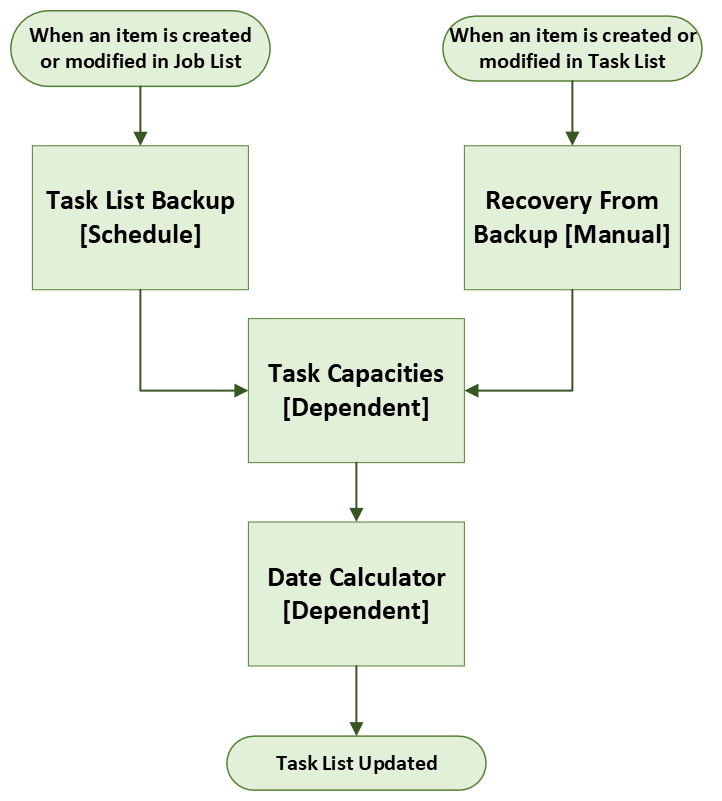
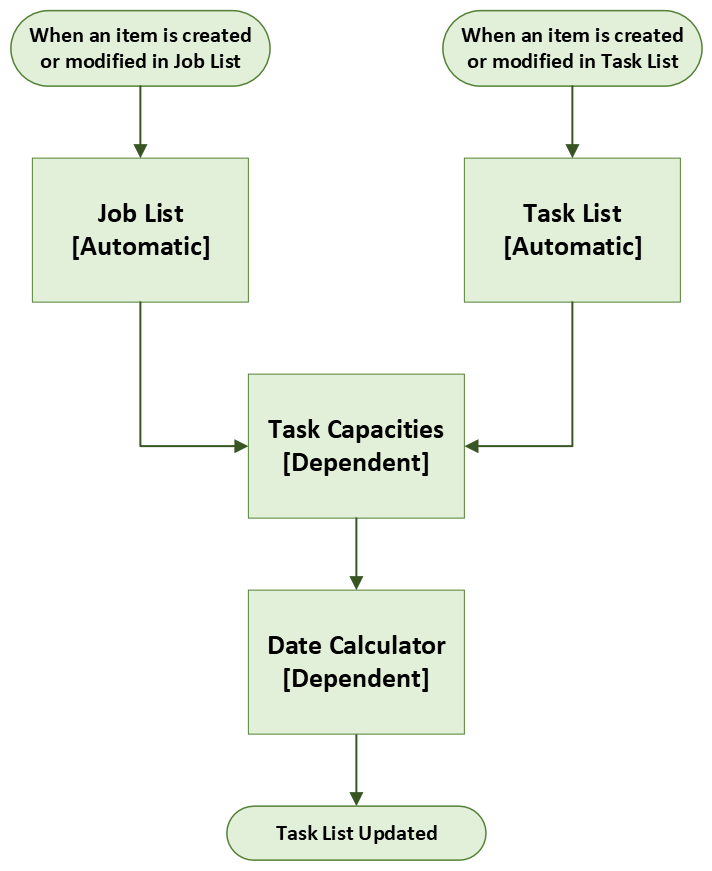
many updates

Changed region(s): [[0.0309, 0.1561, 0.9579, 0.9988], [0.0, 0.0, 0.4017, 0.1873], [0.618, 0.0, 0.9888, 0.1873]]

diff --git a/docs/flows/General/Task Capacities [Dependent].md b/docs/flows/General/Task Capacities [Dependent].md
@@ -5,33 +5,59 @@
 <p>notify.engineering account owns this <a href="https://make.powerautomate.com/environments/Default-a5273f41-687e-4e5e-9fba-18c6ce465b41/flows/shared/a4d1ba00-b59c-4e14-9d5a-ea0e869080d1/details" target="_blank">Flow</a>. If you are not a co-owner you will not be able to access it.</p>
 </div>
 
+
 ## Description
-Flow used to obtain data from the <a href="https://vistacaretech.sharepoint.com/sites/engineering/Bell/BracebridgeUBF/Lists/Task%20Capacities/AllItems.aspx" target="_blank">Task Capacities</a> list referring to the **Job** to which the **Task** is related. Then pass this data to the next Flow (***Bell - Bracebridge UBF - Date Calculator [Dependent] Flow***).
+Flow used to obtain data from the **Task Capacities** SharePoint list referring to the **Job** to which the **Task** is related. Then pass this data to the next Flow (**Date Calculator [Dependent]** Flow).
+
 
 ## Trigger Action
-When an HTTP request is received from:
-* ***Bell - Bracebridge UBF - Job List [Automatic] Flow***
-* ***Bell - Bracebridge UBF - Task List [Automatic] Flow***
+When an HTTP request is received from **Job List [Automatic]** or  **Task List [Automatic]** Flows.
+
+
+## Variables
+* **First Task ID**: **Integer** type variable used to store the ID of the first **Task** referring to this **Job** in the **Task List**, that is, the ID of the **Parent Task**.
+<br></br>
+
+* **Active Task Sync**: **Float** type variable used to store the **Step**/**#** of the first type of **Task** present in the **Task Capacities** SharePoint list referring to a **Job** that has the attribute **Active Task Sync** in the **Job List** SharePoint list.
+<br></br>
+
 
 ## Decision Points
-* **Condition - If There Are No Tasks For This Job in The Task List Yet**: Condition used to identify whether the **Job** already has tasks related to it in the <a href="https://vistacaretech.sharepoint.com/sites/engineering/Bell/BracebridgeUBF/Lists/Task%20List/1000%20Tasks.aspx" target="_blank">Task List</a>.
+* **Condition - If There Are No Tasks For This Job in The Task List Yet**: Condition used to identify whether the **Job** already has tasks related to it in the **Task List**.
 <br></br>
     * Type: if
 <br></br>
-* **Condition - If Has Active Task Sync**: Condition used to identify whether the **Job** in the <a href="https://vistacaretech.sharepoint.com/sites/engineering/Bell/BracebridgeUBF/Lists/Job%20List/AllItems.aspx" target="_blank">Job List</a> has any task assigned as **Active Task Sync**.
+* **Condition - If Has Active Task Sync**: Condition used to identify whether the **Job** in the **Job List** has any task assigned as **Active Task Sync**.
 <br></br>
     * Type: if
 <br></br>
 
+
+## Related Flows
+* [Task List [Automatic]](Task%20List%20[Automatic].md)
+* [Job List [Automatic]](Job%20List%20[Automatic].md)
+* [Date Calculator [Dependent]](Date%20Calculator%20[Dependent].md)
+
+
 ## Workflow End
-* HTTP action (***Bell - Bracebridge UBF - Date Calculator [Dependent] Flow***)
+1. "**HTTP** - Date Calculator [Dependent]"  
+    **->** "**Update item** - Job Name Row First Task on Task List"
+<br></br>
+
 
 ## SharePoint Lists Affected by Workflow
 * <a href="https://vistacaretech.sharepoint.com/sites/engineering/Bell/BracebridgeUBF/Lists/Task%20List/1000%20Tasks.aspx" target="_blank">Task List</a>
 * <a href="https://vistacaretech.sharepoint.com/sites/engineering/Bell/BracebridgeUBF/Lists/Job%20List/AllItems.aspx" target="_blank">Job List</a>
 * <a href="https://vistacaretech.sharepoint.com/sites/engineering/Bell/BracebridgeUBF/Lists/Task%20Capacities/AllItems.aspx" target="_blank">Task Capacities</a>
 
+<div class="note">
+<p class="admonition-title">IMPORTANT</p>
+<p>The links above point to the lists present on the **Bracebridge UBF** subsite, however Flow will update the equivalent lists in each set subsite.</p>
+</div>
+
+
 ## Excel Spreadsheets Involved in the Process
+* There is no excel spreadsheets involved in the process.
 
 
 ## Example of Execution

diff --git a/docs/flows/General/Daily Update of Lists by Subsite [Schedule].md b/docs/flows/General/Daily Update of Lists by Subsite [Schedule].md
@@ -5,8 +5,10 @@
 <p>notify.engineering account owns this <a href="https://make.powerautomate.com/environments/Default-a5273f41-687e-4e5e-9fba-18c6ce465b41/flows/7d8c6806-8952-4cd7-824b-c26c6d712bc8/details" target="_blank">Flow</a>. If you are not a co-owner you will not be able to access it.</p>
 </div>
 
+
 ## Description
 Flow used to trigger the execution of other Flows on a daily basis, which are responsible for updating Sharepoint List. Also responsible for passing on the necessary parameters for the execution of these other Flows.
+
 
 ## Trigger Action
 Flow is automatically activated daily at sunset.
@@ -15,6 +17,7 @@ Flow is automatically activated daily at sunset.
 <p class="admonition-title">IMPORTANT</p>
 <p>If necessary, it can be configured to trigger several times a day at different times.</p>
 </div>
+
 
 ## Variables
 * **parameters**: **Array** type variable that stores the **siteAddress**, **katapultFolder**, **timeToStart** and **startDateRule** values in **Object** format.
@@ -39,14 +42,21 @@ Flow is automatically activated daily at sunset.
 * **listsNames**: **Object** type variable used to store the name of the SharePoint lists used in the Flow and their respective IDs when executing the "Apply to each siteAddress" action.
 <br></br>
 
+
 ## Decision Points
-* There is no decision point.
+There is no decision point.
+
 
 ## Related Flows
 * [Update of Lists related to Field Survey [Dependent]](../General/Update%20of%20Lists%20Related%20to%20Field%20Survey%20[Dependent].md)
+* [Get SharePoint Lists IDs [Dependent]](../General/Get%20SharePoint%20Lists%20IDs%20[Dependent].md)
+
 
 ## Workflow End
-1. "**Apply to each** siteAddress" > "**HTTP** - Update of Lists related to Field Survey [Dependent]"
+1. "**Apply to each** siteAddress"  
+    **->** "**HTTP** - Update of Lists related to Field Survey [Dependent]"
+<br></br>
+
 
 ## SharePoint Lists Affected by the Workflow
 * <a href="https://vistacaretech.sharepoint.com/sites/engineering/Lists/Field_Collection/Group%20Dates.aspx" target="_blank">Daily Field Collections</a>
@@ -57,11 +67,12 @@ Flow is automatically activated daily at sunset.
 
 <div class="note">
 <p class="admonition-title">IMPORTANT</p>
-<p>The links above point to the lists present on the Engineering subsite, however Flow will update the equivalent lists in each set subsite.</p>
+<p>The links above point to the lists present on the **Engineering** subsite, however Flow will update the equivalent lists in each set subsite.</p>
 </div>
 
+
 ## Excel Spreadsheets Involved in the Process
-* <a href="https://vistacaretech.sharepoint.com/sites/engineering/Shared%20Documents/Forms/AllItems.aspx?id=%2Fsites%2Fengineering%2FShared%20Documents%2FField%20Survey%2FDaily%20Field%20Collections&viewid=08c9b4b0%2D1976%2D4850%2Da879%2D28ef79748a25" target="_blank">DailyFieldCollections.xlsx</a>
-* <a href="https://vistacaretech.sharepoint.com/sites/engineering/Shared%20Documents/Forms/AllItems.aspx?id=%2Fsites%2Fengineering%2FShared%20Documents%2FField%20Survey%2FDaily%20Field%20Collections&viewid=08c9b4b0%2D1976%2D4850%2Da879%2D28ef79748a25" target="_blank">DailyUpdatedJobList.xlsx</a>
+There is no excel spreadsheets involved in the process.
+
 
 ## Example of Execution

diff --git a/docs/flows/General/Task List [Automatic].md b/docs/flows/General/Task List [Automatic].md
@@ -30,11 +30,13 @@ When an item is created or modified in the **Task List**.
 <br></br>
     * Type: if
 <br></br>
-* **Condition**: Condition used to identify whether the Status attribute was changed to **Completed**, and then direct Flow to the appropriate action.
+
+* **Condition - If Task Has Status Completed**: Condition used to identify whether the Status attribute was changed to **Completed**, and then direct Flow to the appropriate action.
 <br></br>
     * Type: if
 <br></br>
-* **Condition 2**: Condition used to identify whether the Status attribute was changed to **In Progress**, and then direct Flow to the appropriate action.
+
+* **Condition - If Task Has Status In Progress**: Condition used to identify whether the Status attribute was changed to **In Progress**, and then direct Flow to the appropriate action.
 <br></br>
     * Type: if
 
@@ -42,12 +44,19 @@ When an item is created or modified in the **Task List**.
 ## Related Flows
 * [Task Capacities [Dependent]](Task%20Capacities%20[Dependent].md)
 * [Date Calculator [Dependent]](Date%20Calculator%20[Dependent].md)
+* [Get SharePoint Lists IDs [Dependent]](../General/Get%20SharePoint%20Lists%20IDs%20[Dependent].md)
 
 
 ## Workflow End
-* Condition - If Task Had Its Status, StartDate or DueDate changed > Case False > Terminate action
-* Condition > Case False > Condition 2 > Case False > Terminate action
-* HTTP action (***Bell - St Charles - Task Capacities [Dependent] Flow***)
+1. "**Condition** - If Task Had Its Status, StartDate or DueDate changed"  
+    **->** "**Case** True"
+    **->** "**HTTP** - Task Capacities [Dependent]"  
+<br></br>
+
+2. "**Condition** - If Task Had Its Status, StartDate or DueDate changed"  
+    **->** "**Case** False"
+    **->** "Terminate"
+<br></br>
 
 
 ## SharePoint Lists Affected by Workflow
@@ -55,7 +64,7 @@ When an item is created or modified in the **Task List**.
 
 <div class="note">
 <p class="admonition-title">IMPORTANT</p>
-<p>The links above point to the lists present on the Bracebridge UBF subsite, however Flow will update the equivalent lists in each set subsite.</p>
+<p>The links above point to the lists present on the **Bracebridge UBF** subsite, however Flow will update the equivalent lists in each set subsite.</p>
 </div>
 
 

diff --git a/docs/flows/General/Job List [Automatic].md b/docs/flows/General/Job List [Automatic].md
@@ -41,6 +41,7 @@ When an item is created or modified in the **Job List**.
 * [Task Capacities [Dependent]](Task%20Capacities%20[Dependent].md)
 * [Date Calculator [Dependent]](Date%20Calculator%20[Dependent].md)
 * [Update Job List With New Jobs [Dependent]](Update%20Job%20List%20With%20New%20Jobs%20[Dependent].md)
+* [Get SharePoint Lists IDs [Dependent]](../General/Get%20SharePoint%20Lists%20IDs%20[Dependent].md)
 
 
 ## Workflow End
@@ -60,7 +61,7 @@ When an item is created or modified in the **Job List**.
     **->** "**Case** False"
     **->** "**Condition** - If the Job received a Start Date"  
     **->** "**Case** False"  
-    **->** Terminate"  
+    **->** "Terminate"
 <br></br>
 
 
@@ -69,12 +70,12 @@ When an item is created or modified in the **Job List**.
 
 <div class="note">
 <p class="admonition-title">IMPORTANT</p>
-<p>The links above point to the lists present on the Bracebridge UBF subsite, however Flow will update the equivalent lists in each set subsite.</p>
+<p>The links above point to the lists present on the **Bracebridge UBF** subsite, however Flow will update the equivalent lists in each set subsite.</p>
 </div>
 
 
 ## Excel Spreadsheets Involved in the Process
-* There is no excel spreadsheets involved in the process.
+There is no excel spreadsheets involved in the process.
 
 
 ## Example of Execution

diff --git a/docs/flows/General/Update of Lists related to Field Survey [Dependent].md b/docs/flows/General/Update of Lists related to Field Survey [Dependent].md
@@ -9,7 +9,7 @@
 Flow used to add **Daily Field Collection** data contained in Excel spreadsheets to Sharepoint lists. The data contained in Excel spreadsheets is obtained through the **KatapultTracker.py** code.
 
 ## Trigger Action
-Flow is automatically activated daily at sunset.
+Flow is triggered from a call in another Flow.
 
 ## Variables
 * **siteAddress**: **String** type variable that stores the address of the SharePoint subsite.
@@ -130,7 +130,7 @@ Flow is automatically activated daily at sunset.
     **->** "**Case** DailyUpdatedJobList.xlsx"  
     **->** "**Condition** - Is Date of the Obtained Data Equal to Current Date"  
     **->** "**Case** False"  
-    **->** Terminate
+    **->** "Terminate"
 <br></br>
 
 ## SharePoint Lists Affected by the Workflow
@@ -142,7 +142,7 @@ Flow is automatically activated daily at sunset.
 
 <div class="note">
 <p class="admonition-title">IMPORTANT</p>
-<p>The links above point to the lists present on the Engineering subsite, however Flow will update the equivalent lists in each set subsite.</p>
+<p>The links above point to the lists present on the **Engineering** subsite, however Flow will update the equivalent lists in each set subsite.</p>
 </div>
 
 ## Excel Spreadsheets Involved in the Process
